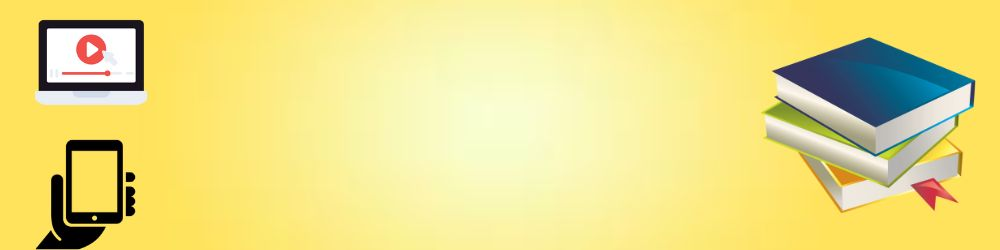
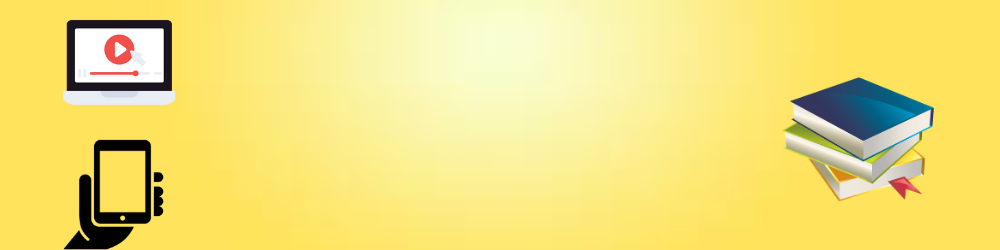
main

diff --git a/style.css b/style.css
@@ -5,6 +5,8 @@
     padding: 0;
     box-sizing: border-box;
     overflow-x: hidden;
+    background-size: cover;
+    background-repeat: no-repeat;
 }
 
 body {
@@ -133,6 +135,16 @@ main {
     height: 100%;
     width: 100%;
 }
+@media screen and (max-width:1000px) {
+    main {
+        width: 80vw;
+        background-size: 650px 150px;
+        background-position: center;
+        background: url(/images/banner2.png) cover;
+        background-size: cover;
+        background-repeat: no-repeat;
+    }
+}
 @media screen and (max-width:850px) {
     
     header {
@@ -197,6 +209,16 @@ main {
     }
 
 }
+@media screen and (max-width:760px) {
+    main {
+        width: 80vw;
+        background-size: 650px 150px;
+        background-position: center;
+        background: url(/images/banner3.png);
+        background-size: cover;
+        background-repeat: no-repeat;
+    }
+}
 @media screen and (max-width:650px) {
     
     header {
@@ -253,7 +275,9 @@ main {
         width: 80vw;
         background-size: 650px 150px;
         background-position: center;
-
+        background: url(/images/banner2.png);
+        background-size: cover;
+        background-repeat: no-repeat;
     }
     main h2 {
         font-size: 1.2rem;
@@ -287,8 +311,23 @@ footer a {
 footer h2 {
     margin-bottom: 1rem;
 }
+
 a {
     text-decoration: none;
+}
+@media screen and (max-width:380px) {
+    main {
+        width: 90vw;
+        background-size: cover;
+        background-position: center;
+        background: url(images/banner4.png);
+        height: 20vh;
+        background-size: cover;
+        background-repeat: no-repeat;
+    }
+    main h2 {
+        font-size: 1rem;
+    }
 }
 @media screen and (max-width:360px) {
     
@@ -342,14 +381,13 @@ a {
         align-items: center;
         justify-content: center;
     }
-    main {
-        width: 90vw;
-        background-size: 650px 150px;
-        background-position: center;
+    
 
-    }
-    main h2 {
-        font-size: 1.2rem;
-    }
+}
 
+.hide {
+    display: none;
+}
+.show {
+    display: grid;
 }

diff --git a/main.js b/main.js
@@ -1,20 +1,30 @@
 const input = document.querySelector('.main-input')
 const searchBtn = document.querySelector('.search-button')
 const bookList = document.querySelectorAll('.book')
-let bookClassList = []
-
-for (let i = 0; i < bookList.length;i ++){
-    bookClassList.push(bookList[i].classList[1])
-}
-
-
 
 function Search() {
     searchBtn.addEventListener('click',(event) => {
         let inputValue = input.value
         if (inputValue) {
-            console.log(inputValue)
-        }  
+            bookList.forEach(book => {
+                book.classList.forEach(className => {
+                    if(className.toLowerCase().search(String(inputValue).toLowerCase().replace(' ','')) == 0){
+                        book.classList.add('show')
+                    } else {
+                        book.classList.add('hide')
+                    }
+                })
+            })
+        }  else {
+            bookList.forEach(book => {
+                book.classList.forEach(className => {
+                    if(className == 'show' || className == 'hide') {
+                        book.classList.remove('show')
+                        book.classList.remove('hide')
+                    }
+                })
+            })
+        }
     })
     
 }

diff --git a/index.html b/index.html
@@ -24,7 +24,7 @@
         <h2 class="banner-text">ይህ በ አንበሳ ቢዝነስ ግሩፕ የተዘጋጀ <br> ትምህርት መማሪያ ድህረ ገፅ ነው</h2>
     </main>    
    <div class="books-container">
-        <div class="book forex">
+        <div class="book ForexBitcoin">
             <div class="info">
                 <div class="title">Forex Bitcoin</div>
                 <div class="price">price <span>69.99 <sup>ETB</sup></span></div>
@@ -94,6 +94,10 @@
             <span>
                 +251909268924
             </span><br>
+            <span>
+                +251717268924
+            </span><br>
+             
         </div>
         <div class="email">
             <a href="#">ANBESABISNESSGROUP@GMAIL.COM</a>
